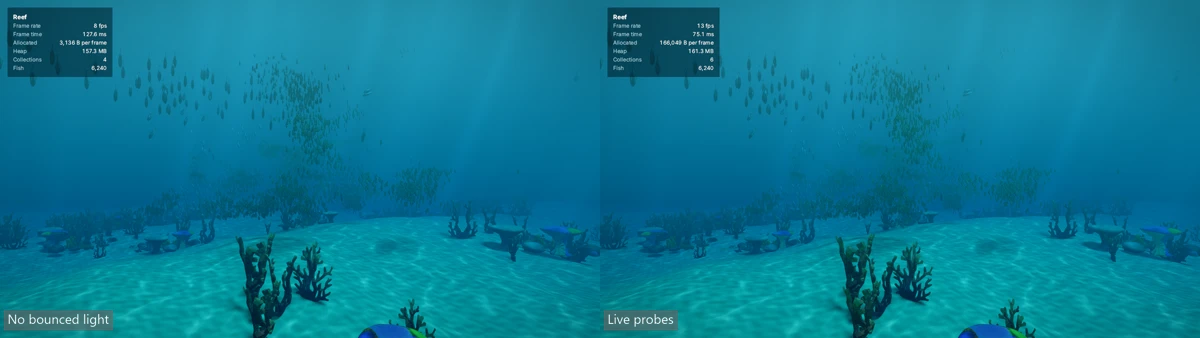
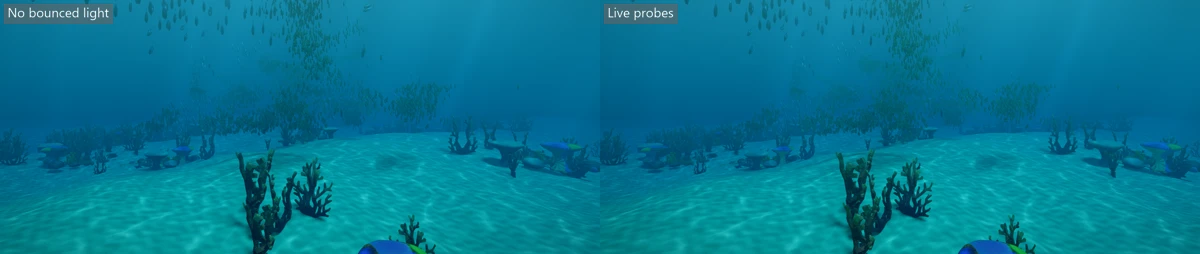
docs: crop the Reef and Courtyard probe shots, drop Crypt's
Reef leaves out its stats overlay, whose numbers read as a speed claim.
Courtyard crops to the wall right of the window and says only what it
shows. Crypt looked the same on both sides.

diff --git a/docs/rendering.md b/docs/rendering.md
@@ -334,7 +334,7 @@ wall tints the floor beside it, and the inside of a closed room stays dark howev
 sky is. The probes see the sun, the sky, point and spot lights (inside their cones), glowing
 surfaces and the light already bounced, so light bounces again with every update.
 
-![The Courtyard's window wall, barrel and wheel lit by a box of probes captured once at load on the left, and by the live probes round the camera on the right, where the shaded wall right of the window and the barrel pick up a little more warm light off the sunlit brick](media/probes-courtyard.webp)
+![The Courtyard's brick wall right of the window, lit by a box of probes captured once at load on the left and by the live probes round the camera on the right. The two nearly match: the live probes leave the wall a shade darker](media/probes-courtyard.webp)
 
 Where a probe sees nothing it sees the same sky that lights the scene without probes, so in a
 scene with no [`view.Sky`](#the-sky) it sees the soft studio light rather than the plain
